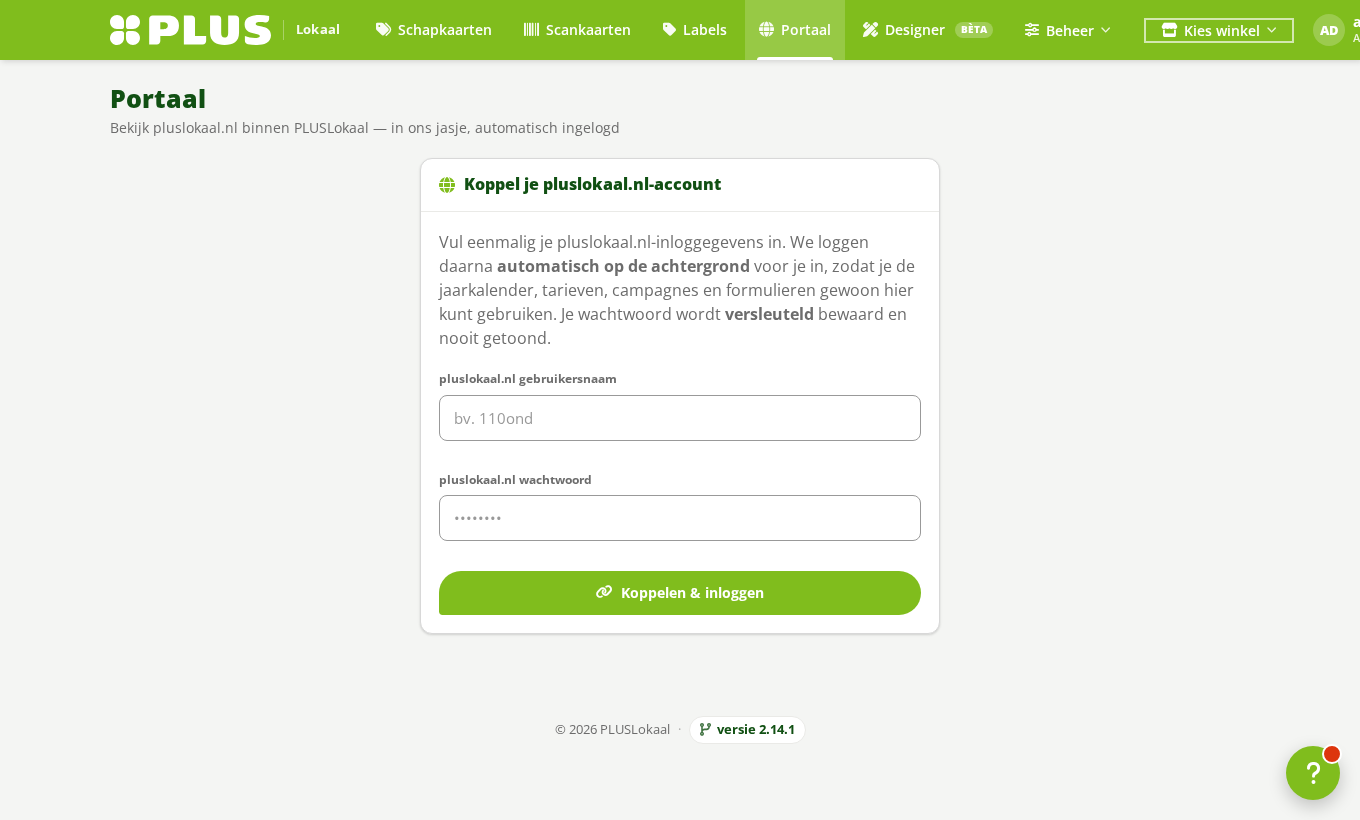
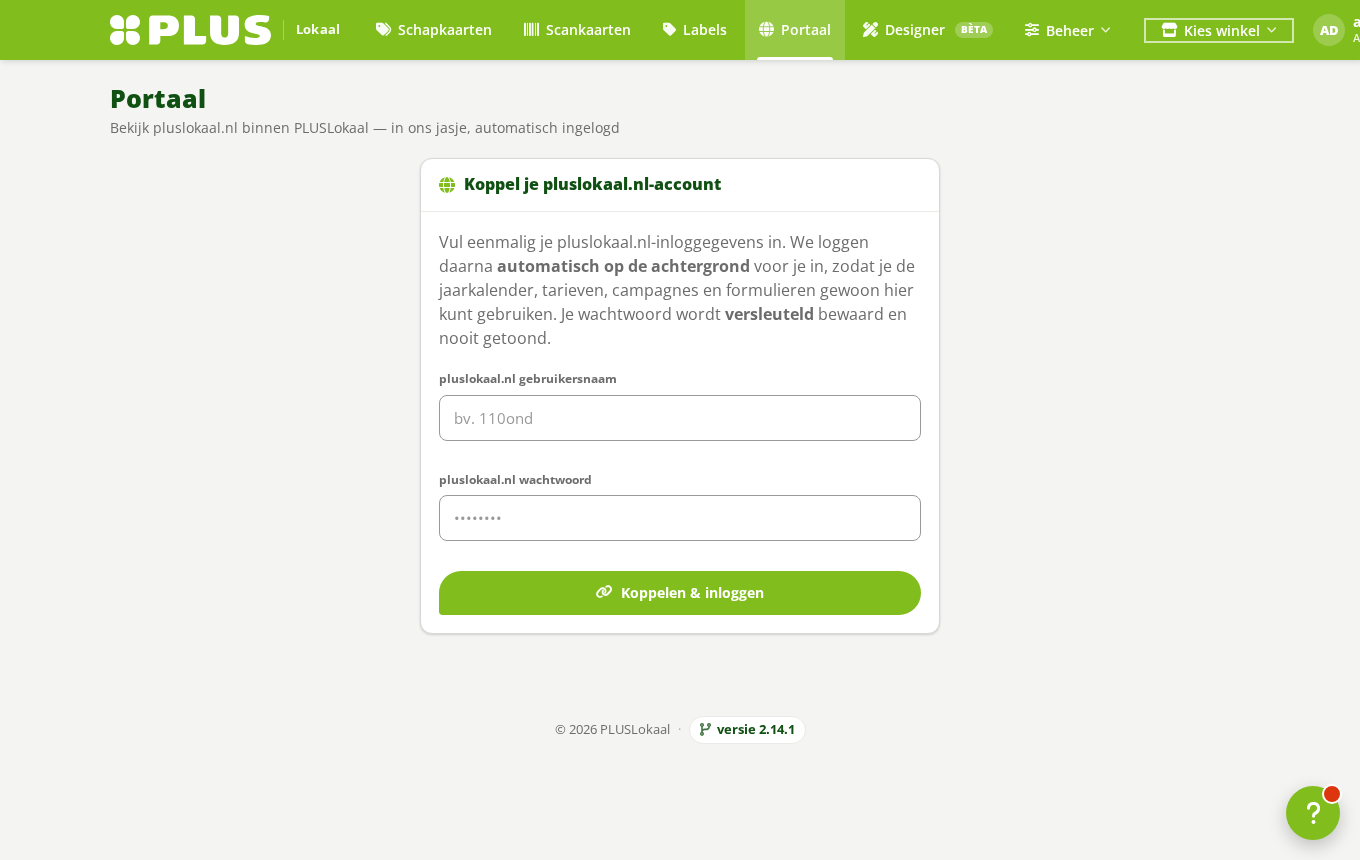
README: alle beheer-instellingen gedocumenteerd + portaal-screenshot (anoniem)
Beheer volledig: gebruikers(-detail), filialen + winkelprinter, winkelpakket-accounts,
rollen, opslag, mail, logboek, kennisbank, feedback, demo-account. Alle screenshots met
fictieve/anonieme voorbeelddata.

Claude-Session: https://claude.ai/code/session_01Y2k7SRDca3MRq4LBVbLdjc

diff --git a/README.md b/README.md
@@ -45,15 +45,31 @@ getoond en netjes overgeslagen.
 <img src="docs/screenshots/scankaarten.png" width="49%"> <img src="docs/screenshots/designer.png" width="49%">
 </p>
 
+Het **Portaal** koppel je eenmalig; daarna log je automatisch op de achtergrond in en gebruik je
+pluslokaal.nl binnen de app (je wachtwoord wordt versleuteld bewaard).
+
+![Portaal](docs/screenshots/portaal.png)
+
 ### Beheer (superadmin)
 
-- **Gebruikers** — medewerkers/ondernemers per winkel; uitnodigen (welkomstmail), rol wijzigen, wachtwoord resetten.
+- **Gebruikers** — medewerkers/ondernemers per winkel; uitnodigen (welkomstmail met tijdelijk wachtwoord),
+  rol wijzigen, wachtwoord resetten.
 
   ![Gebruikers](docs/screenshots/beheer-gebruikers.png)
 
-- **Filialen** — winkels + **winkelprinters** (IPP, per formaat de juiste lade).
+  Per gebruiker een detailscherm: alle velden bewerken, welkomst-/reset-mail sturen, en **verwijderen met
+  overdracht** van diens kaarten naar een andere gebruiker.
+
+  ![Gebruiker bewerken](docs/screenshots/beheer-gebruiker-detail.png)
+
+- **Filialen** — winkels aanmaken (winkelnummer + naam).
 
   ![Filialen](docs/screenshots/beheer-filialen.png)
+
+  Per winkel de **winkelprinter** instellen (IPP): documentprinter, poort en per formaat de juiste **lade**,
+  plus optioneel IP-beperkingen.
+
+  ![Winkelprinter instellen](docs/screenshots/beheer-filiaal-printer.png)
 
 - **Winkelpakket-accounts** — de pluslokaal.nl-accounts (max. **6**) voor W2P-downloads; **meer accounts = sneller**
   (parallel). Plus per superadmin: **mail bij een mislukte sync/download** aan/uit.
@@ -68,7 +84,29 @@ getoond en netjes overgeslagen.
 
   ![Opslag](docs/screenshots/beheer-opslag.png)
 
-- Verder: **Mailinstellingen** (SMTP + testmail), **Demo-account** (aan/uit), **Logs**, **Feedback** en **Kennisbank**.
+- **Mailinstellingen** — SMTP (bv. Resend) voor uitnodigingen/reset-mails, met een testmail-knop.
+
+  ![Mailinstellingen](docs/screenshots/beheer-mail.png)
+
+- **Logboek** — audit-log: wie deed wat, wanneer en vanaf welk IP (inloggen, printen, gebruikers, feedback).
+
+  ![Logboek](docs/screenshots/beheer-logs.png)
+
+- **Kennisbank** — beheer de help-artikelen die gebruikers in de app zien.
+
+  ![Kennisbank](docs/screenshots/beheer-kennisbank.png)
+
+- **Feedback** — inbox voor meldingen/ideeën van gebruikers (met reageren en statussen).
+
+  ![Feedback](docs/screenshots/beheer-feedback.png)
+
+- **Demo-account** — het `demo`-account (gesimuleerd printen) aan- of uitzetten.
+
+  ![Demo-account](docs/screenshots/beheer-demo.png)
+
+> **Winkelkiezer** (rechtsboven): een superadmin werkt in álle winkels en kiest bovenin welke winkel
+> actief is (bepaalt o.a. de winkelprinter). Onder **Profiel** stelt elke gebruiker z'n eigen gegevens,
+> profielfoto en eventueel IP-toegangsbeperking in.
 
 ### Inloggen & beveiliging
 
